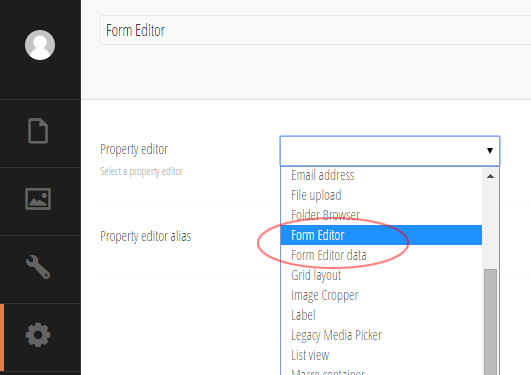
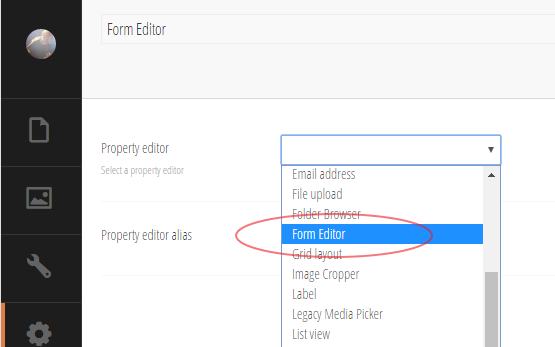
Update docs

diff --git a/Docs/install.md b/Docs/install.md
@@ -1,5 +1,5 @@
 # Installing and setting up Form Editor
-Form Editor works just like any other property editor for Umbraco. Or as it happens to be, two property editors. One for the form layout and one for the form submissions. Why two? Because then you can place the form layout and the form submissions on separate tabs. We'll get back to that.
+Form Editor works just like any other property editor for Umbraco, so installation is pretty straight forward. 
 
 ## Installing the package
 First and foremost grab the [latest Form Editor package](https://github.com/kjac/FormEditor/releases) and install it in your Umbraco site.
@@ -7,12 +7,11 @@ First and foremost grab the [latest Form Editor package](https://github.com/kjac
 Or, if you're using NuGet, you can install the [Form Editor](https://www.nuget.org/packages/FormEditor/) NuGet package. 
 
 ## Setting up the data types
-Once the package is installed, go ahead and create data types. You'll need one "Form Editor" data type and one "Form Editor data". 
+Once the package is installed, go ahead and create a "Form Editor" data type. 
 
 ![Form Editor data types](img/data types.png)
 
 ### Configuring the data type "Form Editor"
-The "Form Editor" data type is used for layouting the form and for controlling the form submissions. This is where the bulk of the Form Editor configuration is done.
 
 ##### Row layouts
 In the "Row layouts" section of the configuration you'll set up the row layouts you want available for your editors. A row layout consists of:
@@ -39,13 +38,10 @@ You can choose separate email templates for notification and confirmation emails
 ##### The rest
 Hopefully the rest of the "Form Editor" data type configuration is self explanatory. Oh, and it's strongly recommended to hide the property label to give the "Form Editor" property as much space as possible.
 
-### Configuring the data type "Form Editor data"
-This should be pretty straight forward. Once again, it's highly recommended to hide the property label.
-
 ## Setting up the content type
-When you have configured the data types, create a content type (or reuse an existing) and add properties based on the new data types. If you're going to use the sample templates, make sure the "Form Editor" property has the property alias "form".
+When you have configured the data type, create a content type (or reuse an existing) and add a property based on the new "Form Editor" data type. If you're going to use the sample templates, make sure the "Form Editor" property has the property alias "form".
 
-Since both properties take up a lot of space in the UI, you should consider placing them on separate tabs - e.g. "Form layout" and "Form data".
+Since the "Form Editor" property takes up a lot of space in the UI, you should consider placing it on a separate tab - e.g. "Form".
 
 **Please note:** You can only have *one* "Form Editor" property per content type.
 
